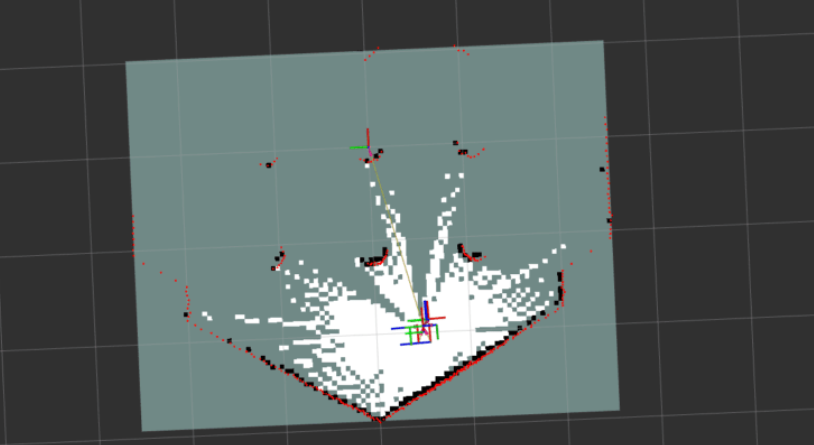
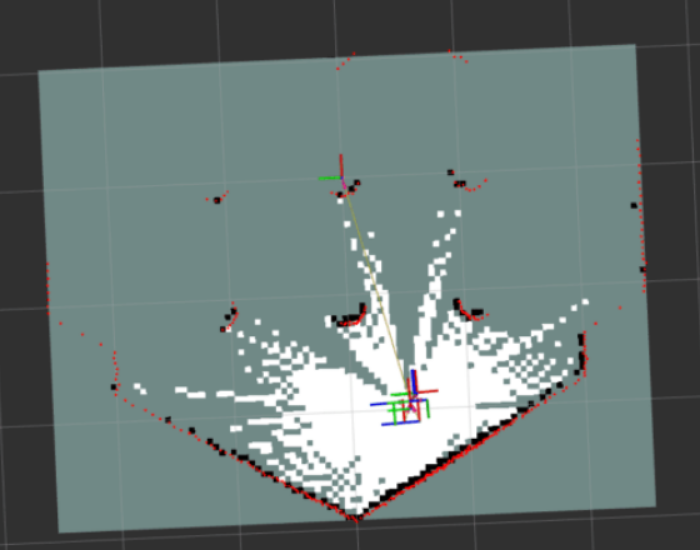
Wide technical schematic for bb3; tighter SLAM crop

diff --git a/index.html b/index.html
@@ -109,7 +109,7 @@ MSc AI, Robotics @ TU Delft/EPFL</p>
     <div><span class="pname">beepboop3000</span>Toy LIDAR SLAM RC vehicle on ROS 2 — a Twist stream mixed into four PWM motor signals</div>
     <div class="shots">
       <a href="https://github.com/paulmis/beepboop3000"><img src="projects/bb3-photo.jpg" width="900" height="599" alt="The four-wheeled rover on a desk: a clear acrylic chassis, yellow-hubbed wheels, a blue lidar puck on the upper deck and two battery packs at the back."></a>
-      <a href="https://github.com/paulmis/beepboop3000"><img src="projects/bb3-slam.png" width="814" height="445" alt="An occupancy grid the rover built from lidar scans: white free space and black obstacle cells fanning out from its coordinate frame."></a>
+      <a href="https://github.com/paulmis/beepboop3000"><img src="projects/bb3-slam.png" width="700" height="550" alt="An occupancy grid the rover built from lidar scans: white free space and black obstacle cells fanning out from its coordinate frame."></a>
       <a href="https://github.com/paulmis/beepboop3000"><img src="projects/bb3-diagram.svg" width="510" height="500" alt="Signal path of the rover: lidar, camera and IMU into a Raspberry Pi 3B, GPIO into two H-bridges, PWM out to four motors."></a>
     </div>
   </li>
